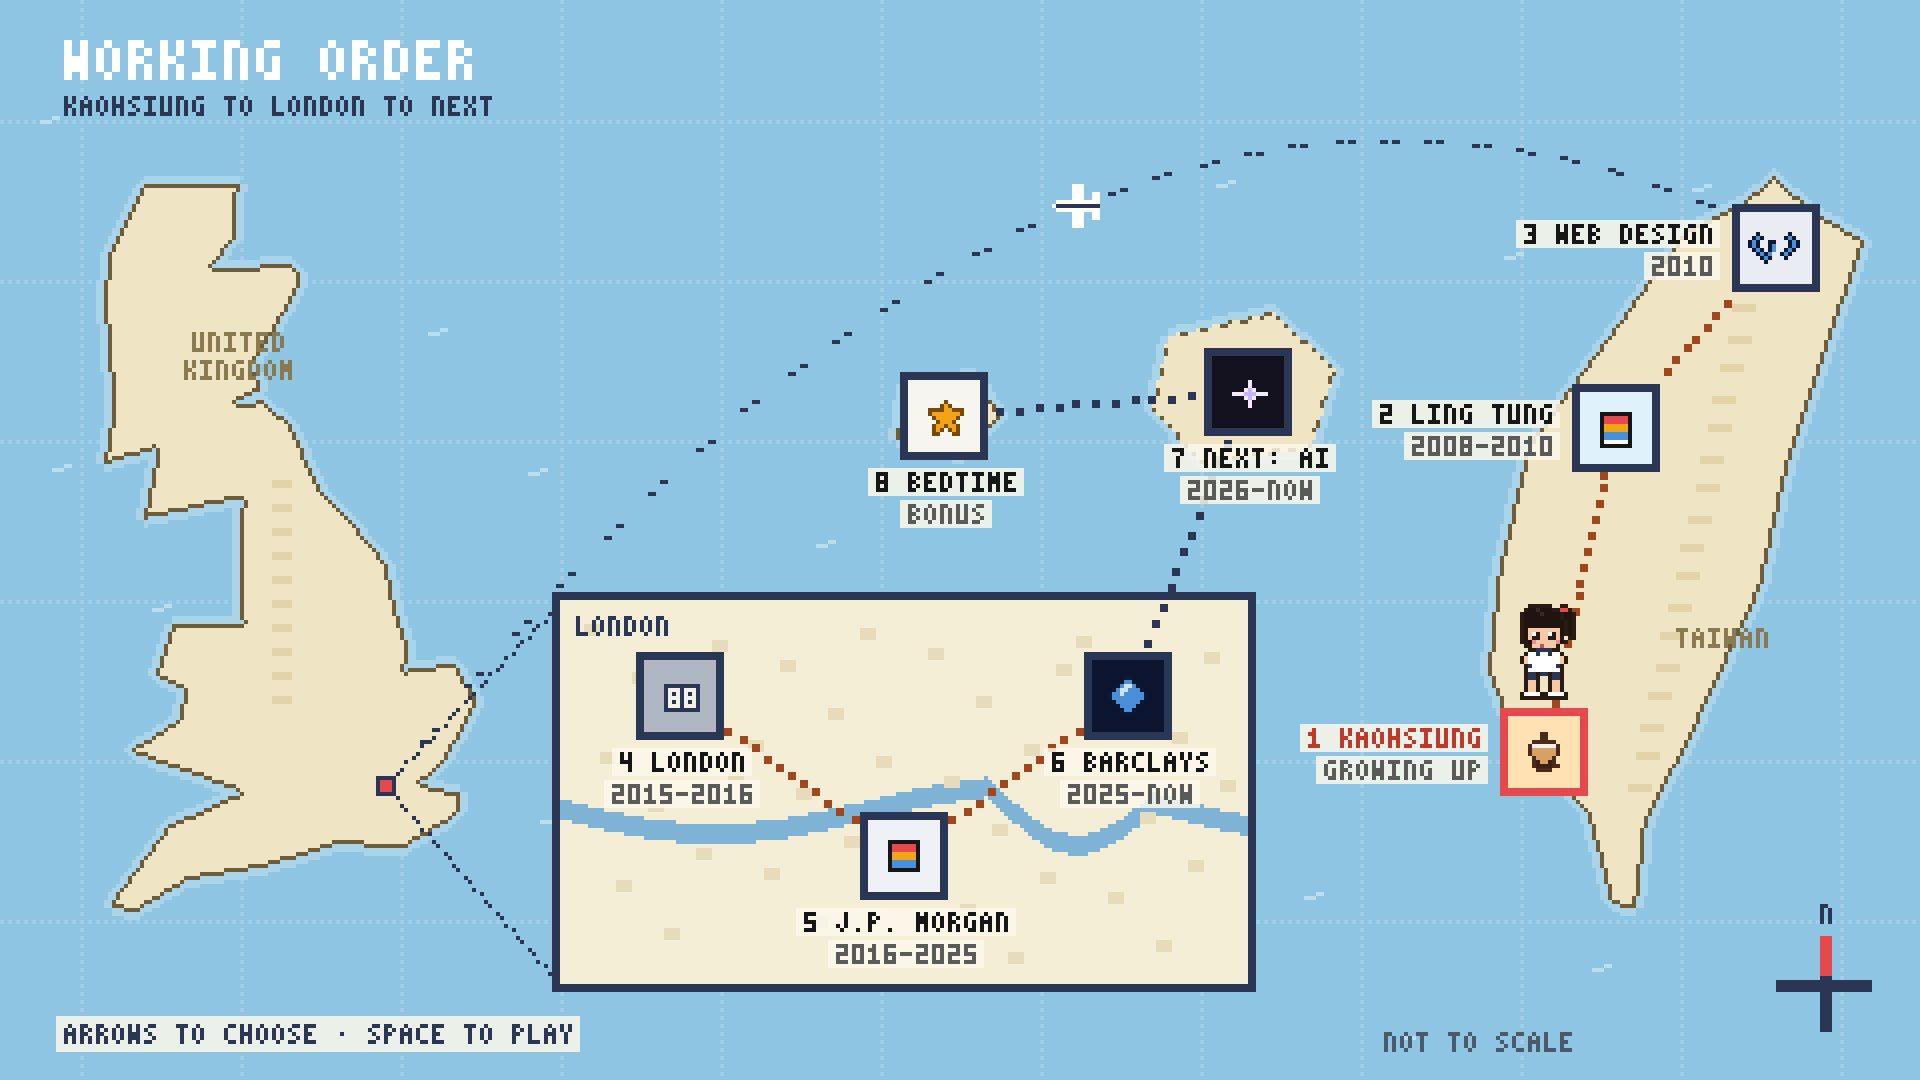
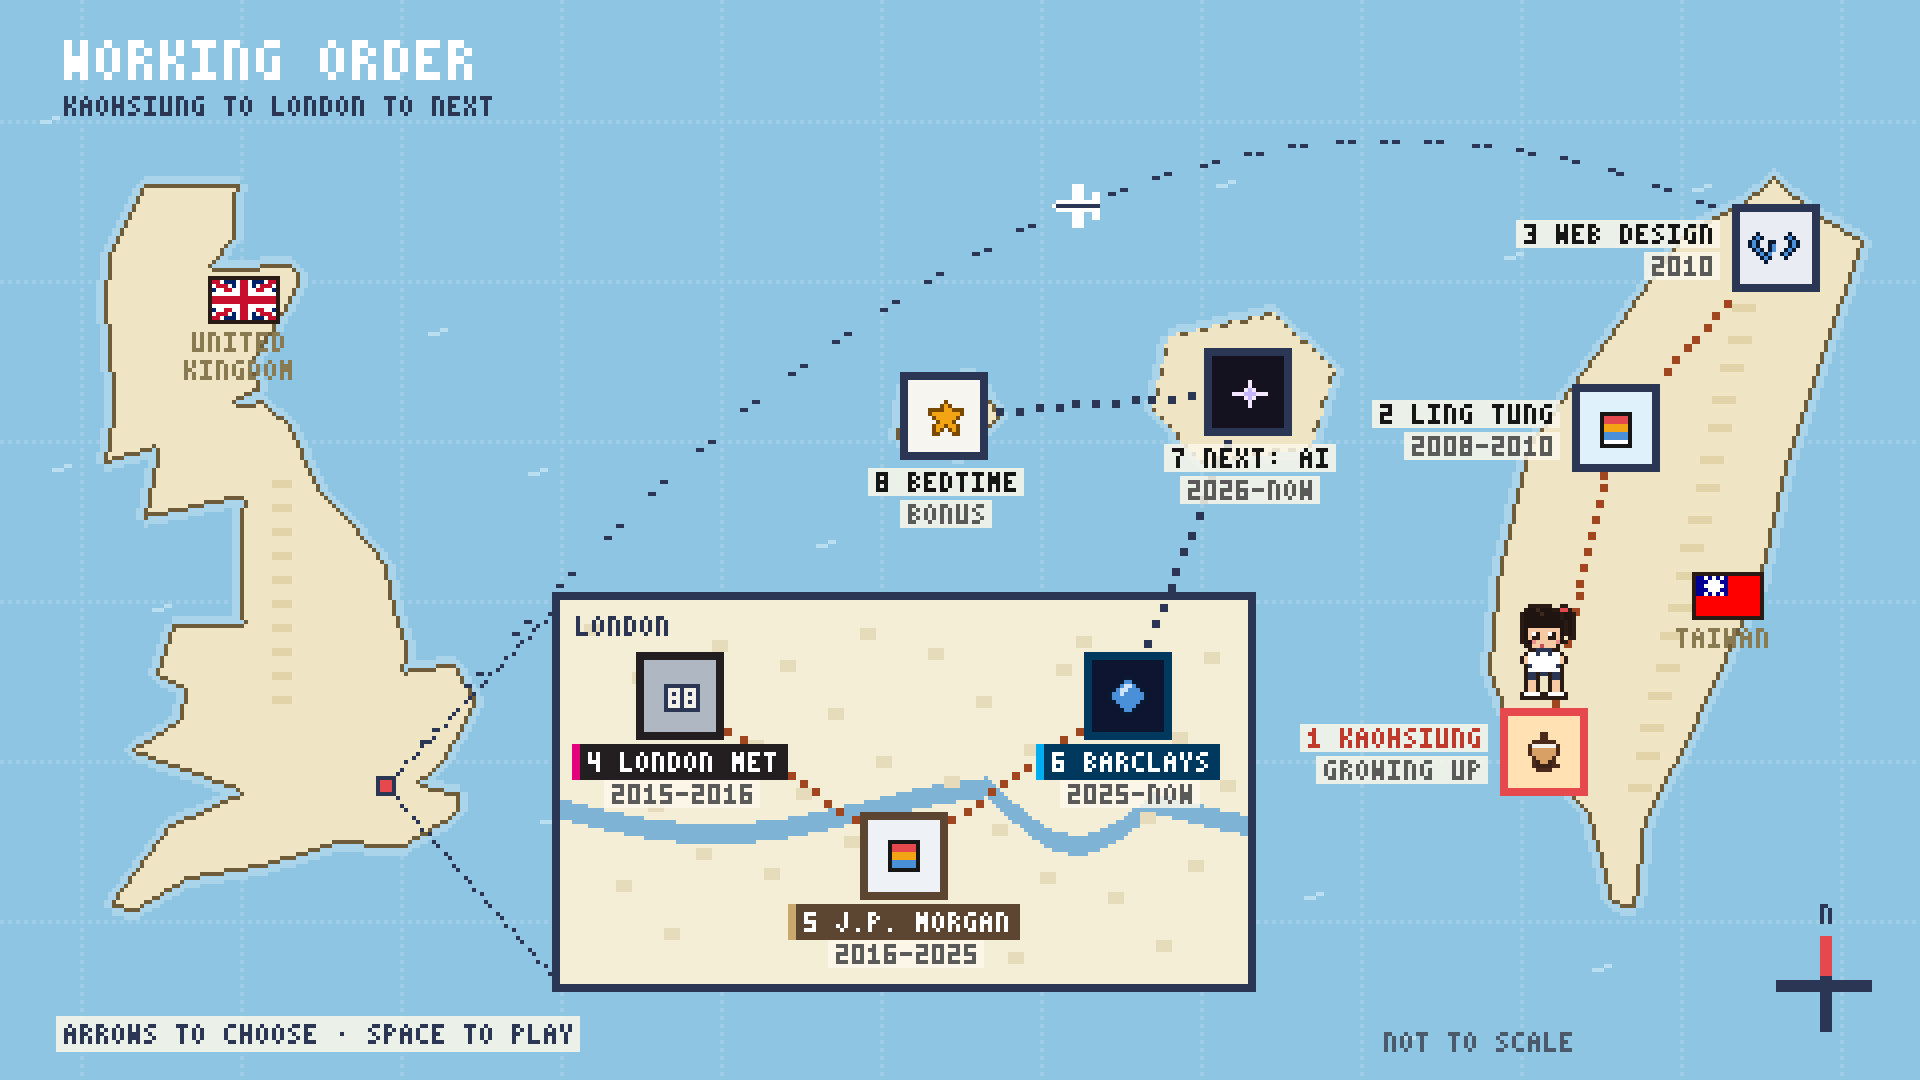
Map: Taiwan and UK flags; brand-colour badges for London Met, J.P. Morgan and Barclays
Claude-Session: https://claude.ai/code/session_01PiRTfcFy5XVS1nrmkuXjvW

diff --git a/src/game/map.ts b/src/game/map.ts
@@ -134,9 +134,12 @@ export function mapBase(): HTMLCanvasElement {
   text(g, 'LONDON', I.x + 4, I.y + 4, INK);
 
   // labels, compass, the honest bit
-  text(g, 'TAIWAN', Math.round(TW(121.3, 23.2)[0]) - 12, Math.round(TW(121.3, 23.2)[1]), '#8a7a52');
-  text(g, 'UNITED', Math.round(UK(-3.2, 56.9)[0]) - 10, Math.round(UK(-3.2, 56.9)[1]), '#8a7a52');
-  text(g, 'KINGDOM', Math.round(UK(-3.2, 56.9)[0]) - 12, Math.round(UK(-3.2, 56.9)[1]) + 7, '#8a7a52');
+  const [twx, twy] = TW(121.3, 23.2).map(Math.round), [ukx, uky] = UK(-3.2, 56.9).map(Math.round);
+  text(g, 'TAIWAN', twx - 12, twy, '#8a7a52');
+  g.drawImage(flagTaiwan(), twx - 8, twy - 14);
+  text(g, 'UNITED', ukx - 10, uky, '#8a7a52');
+  text(g, 'KINGDOM', ukx - 12, uky + 7, '#8a7a52');
+  g.drawImage(flagUK(), ukx - 6, uky - 14);
   const nx = 456, ny = 246; // compass
   px(nx - 1, ny - 12, INK, 3, 24); px(nx - 12, ny - 1, INK, 24, 3); px(nx - 1, ny - 12, '#e5484d', 3, 10);
   text(g, 'N', nx - 1, ny - 20, INK);
@@ -150,3 +153,38 @@ export function labelAt(i: number, s: string, line: number): [number, number] {
   if (i <= 2) return [x - 16 - textWidth(s), y - 6 + line * 8];
   return [Math.round(x - textWidth(s) / 2), y + 14 + line * 8];
 }
+
+// Flags, hand-placed at 16×10 with a 1 px frame. Simplified the way pixel art
+// has to be: the Union Jack without its counterchange, Taiwan's sun as a
+// 3 px disc with eight rays.
+function frame(draw: (px: ReturnType<typeof canvas>['px']) => void) {
+  const f = canvas(18, 12); f.px(0, 0, '#2a1a14', 18, 12); draw((x, y, c, w = 1, h = 1) => f.px(x + 1, y + 1, c, w, h)); return f.c;
+}
+export function flagUK() {
+  return frame((px) => {
+    const W = 16, H = 10;
+    px(0, 0, '#012169', W, H);
+    for (let y = 0; y < H; y++) for (let x = 0; x < W; x++) {
+      const u = (x + 0.5) / W, v = (y + 0.5) / H, d = Math.min(Math.abs(u - v), Math.abs(u - (1 - v)));
+      if (d < 0.07) px(x, y, '#c8102e'); else if (d < 0.16) px(x, y, '#ffffff');
+    }
+    px(6, 0, '#ffffff', 4, H); px(0, 3, '#ffffff', W, 4);
+    px(7, 0, '#c8102e', 2, H); px(0, 4, '#c8102e', W, 2);
+  });
+}
+export function flagTaiwan() {
+  return frame((px) => {
+    px(0, 0, '#fe0000', 16, 10); px(0, 0, '#000095', 8, 5);
+    px(3, 1, '#ffffff', 3, 3); // the white sun
+    for (const [x, y] of [[4, 0], [4, 4], [2, 2], [6, 2], [2, 0], [6, 0], [2, 4], [6, 4]]) px(x, y, '#ffffff');
+  });
+}
+
+/** Brand-colour badges for the London stops: a plate in the organisation's
+ * colour under its name. Not their logos (no trademarked artwork), and the
+ * colours are close matches, kept here so they are easy to correct. */
+export const BRAND: Record<number, { bg: string; accent: string; fg: string }> = {
+  3: { bg: '#231f20', accent: '#e4007c', fg: '#ffffff' }, // London Met
+  4: { bg: '#5c4632', accent: '#c9a96e', fg: '#ffffff' }, // J.P. Morgan
+  5: { bg: '#00395d', accent: '#00aeef', fg: '#ffffff' }, // Barclays
+};

diff --git a/src/game/main.ts b/src/game/main.ts
@@ -8,7 +8,7 @@ import { LEVELS } from './levels';
 import { THEMES, playerFrames, helmet, pet, scooter, type Theme } from './art';
 import { FOES, type Foe } from './enemies';
 import { text, textWidth } from './pixel';
-import { mapBase, NODES, labelAt } from './map';
+import { mapBase, NODES, labelAt, BRAND } from './map';
 import { sfx } from './sound';
 export { setSound } from './sound';
 
@@ -17,7 +17,7 @@ export const WORLDS = [
   { short: 'KAOHSIUNG', when: 'GROWING UP' },
   { short: 'LING TUNG', when: '2008-2010' },
   { short: 'WEB DESIGN', when: '2010' },
-  { short: 'LONDON', when: '2015-2016' },
+  { short: 'LONDON MET', when: '2015-2016' },
   { short: 'J.P. MORGAN', when: '2016-2025' },
   { short: 'BARCLAYS', when: '2025-NOW' },
   { short: 'NEXT: AI', when: '2026-NOW' },
@@ -455,7 +455,8 @@ export function start(canvas: HTMLCanvasElement, opts: Opts) {
     [5, 6].forEach((i) => route(i, '#2b3654', 5));
     NODES.forEach(([x, y], i) => {
       const sel = i === mapSel, done = s.done.includes(i);
-      ctx.fillStyle = sel ? '#e5484d' : '#2b3654'; ctx.fillRect(x - 11, y - 11, 22, 22);
+      const brand = BRAND[i];
+      ctx.fillStyle = sel ? '#e5484d' : brand ? brand.bg : '#2b3654'; ctx.fillRect(x - 11, y - 11, 22, 22);
       ctx.fillStyle = mapIcons[i].sky; ctx.fillRect(x - 9, y - 9, 18, 18);
       const ic = mapIcons[i].pickup[0];
       ctx.drawImage(ic, Math.round(x - ic.width / 2), Math.round(y - ic.height / 2));
@@ -464,6 +465,13 @@ export function start(canvas: HTMLCanvasElement, opts: Opts) {
       const lines = [`${i + 1} ${WORLDS[i].short}`, WORLDS[i].when];
       lines.forEach((l, k) => {
         const [lx, ly] = labelAt(i, l, k);
+        if (brand && k === 0) {
+          // the organisation's badge: its colour, a stripe of its accent, its name
+          ctx.fillStyle = sel ? '#e5484d' : brand.bg; ctx.fillRect(lx - 4, ly - 2, textWidth(l) + 7, 9);
+          ctx.fillStyle = brand.accent; ctx.fillRect(lx - 4, ly - 2, 2, 9);
+          text(ctx, l, lx, ly, brand.fg);
+          return;
+        }
         ctx.globalAlpha = 0.85; ctx.fillStyle = '#fbf7ea'; ctx.fillRect(lx - 2, ly - 1, textWidth(l) + 4, 7); ctx.globalAlpha = 1;
         text(ctx, l, lx, ly, k ? '#5a5a58' : sel ? '#c0392b' : '#161616');
       });

diff --git a/BUILD.md b/BUILD.md
@@ -190,3 +190,11 @@ How this site was made, kept honest. Shannon writes the entries marked **Shannon
 - **Pause on blur:** pressing an on-screen arrow, Sound or the dropdown paused the game immediately, because any loss of focus counted as leaving. Now only leaving the game area pauses it. Touch buttons keep focus on the canvas.
 - **Unpausing:** a paused game now carries on with any game key (Escape still pauses and Tab still leaves), not only a click.
 - **Tests:** `tests/controls.spec.ts` covers all five behaviours. Each failed before the fix.
+
+### PR 12 · Flags and brand-colour badges (Shannon's choice)
+
+- **Flags:** pixel flags for Taiwan and the UK, hand-placed at 16×10 above each country's name. They're simplified as pixel art has to be: the Union Jack without its counterchange, and Taiwan's sun as a small disc with eight rays.
+- **Badges:** London Met, J.P. Morgan and Barclays get brand-colour badges. Each one has a plate in the organisation's colour, a stripe of its accent colour, and its name in the pixel font. Each node's tile frame uses that colour too.
+- **Why not logos:** these are badges, not logos. Shannon picked this over official logo files, so the site uses no trademarked artwork, and her current employer's mark isn't on a job-search site.
+- **Colours:** they are close matches and live in `BRAND` in `src/game/map.ts`, so they're easy to correct.
+- **Label:** world 4's map label now reads "London Met", which names the organisation like the other two badges.
